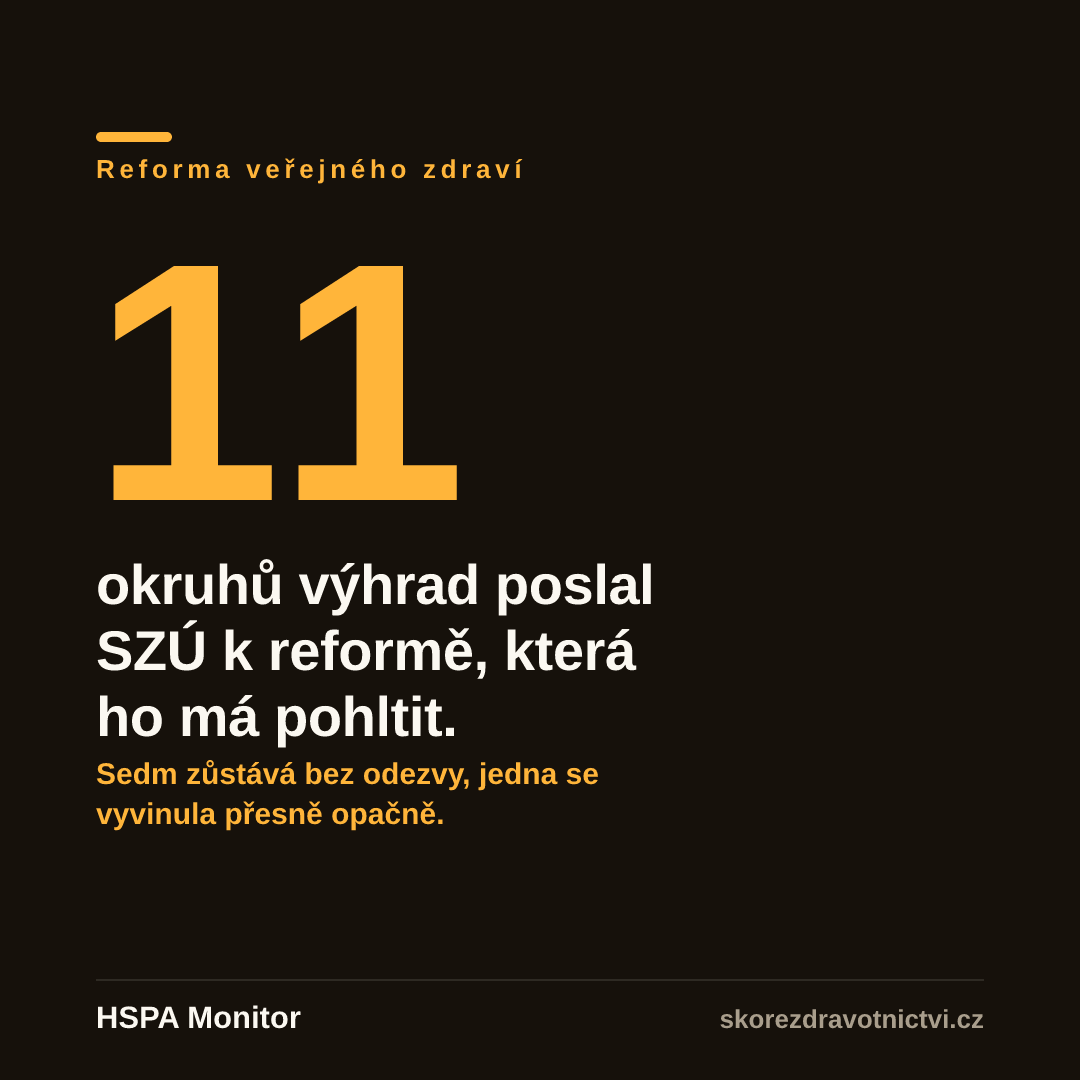
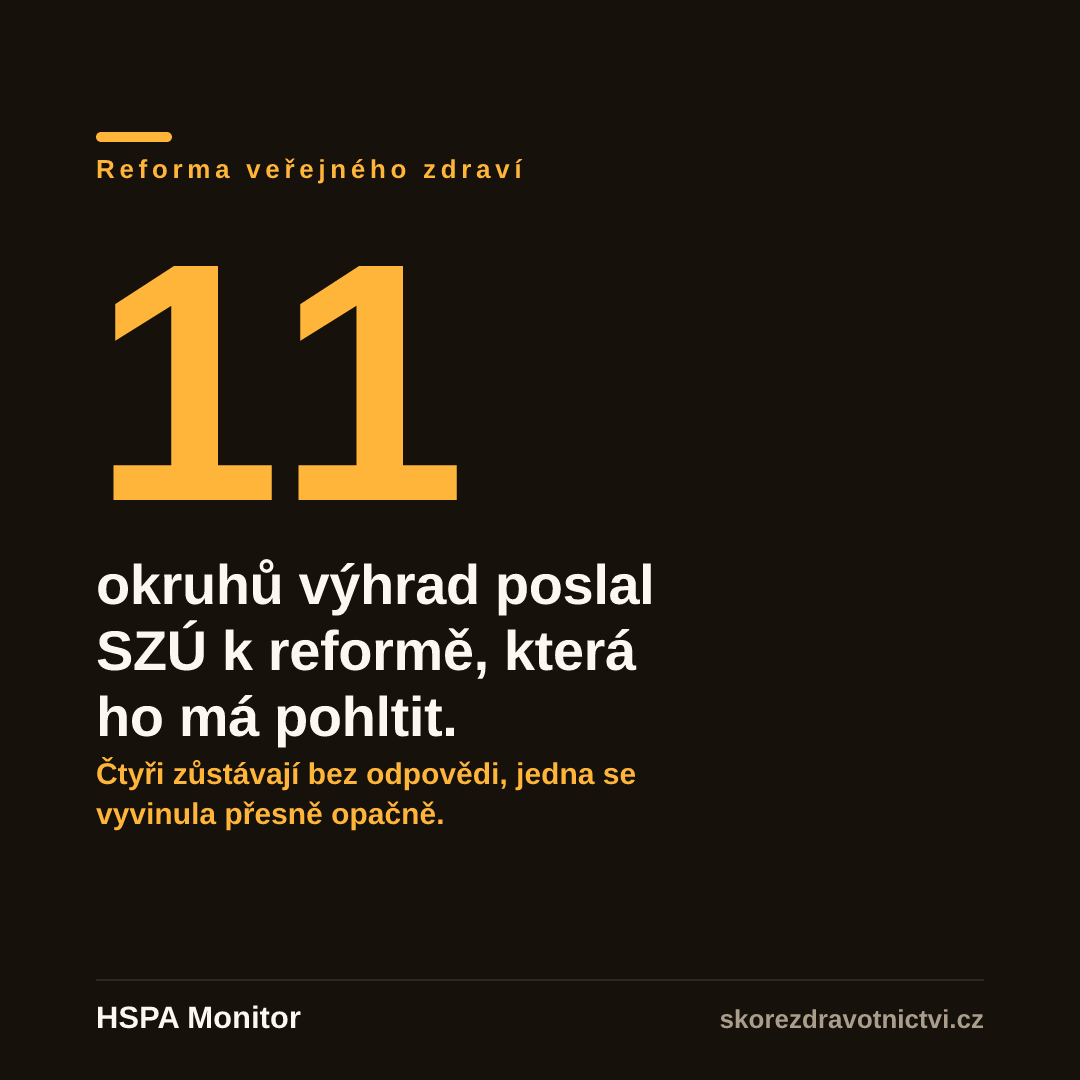
feat(social): karty pro 8 nejnovějších článků + tvrdá kontrola délky kontextu
Osm nejčerstvějších publikovaných článků (#254–#261) nemělo stat-hero kartu,
takže je sociální rutina nemohla vůbec zařadit do fronty — fond kandidátů
končil u článků starých dva týdny. Doplněny entries do MANIFESTu a vygenerovány
všechny tři formáty (1:1 pro FB/IG feed, 9:16 pro Stories, 16:9 pro X).

Kontext karty se vešel jen na dva řádky a přebytek se tiše ořízl uprostřed
věty. Generátor teď v takovém případě spadne se stejnou hláškou jako u claimu.
Opraveny čtyři nové entries a jedna stará (dohodovaci-rizeni-2027-vysledek),
která takhle uříznutá byla na produkci.

Opraven i kontext u szu-pripominky-nivz: karta tvrdila „Sedm zůstává bez
odezvy", článek uvádí čtyři bez odpovědi (šest se pohnulo, jedna opačně).

Verifikace: npm test — 1088 testů, 0 failures. Čísla na kartách pocházejí
z perexů a textů příslušných článků.

Claude-Session: https://claude.ai/code/session_01M6MChSZfyCTAMQoYG3s3ti

Changed region(s): [[0.0917, 0.7028, 0.5806, 0.7333]]

diff --git a/05_M1_Starter/scripts/generate-ig-cards.js b/05_M1_Starter/scripts/generate-ig-cards.js
@@ -99,6 +99,54 @@ const OUT_DIRS = {
 //   headline    — fallback bez čísla (velký serif nadpis).
 // Žádná nová čísla z paměti — vše vychází z dříve schválených headline.
 const MANIFEST = {
+  'clanek-screening-sluchu-deti': {
+    kicker: 'Dětské zdraví · screening', signal: 'bad',
+    stat: '24,5', statSuffix: '%', barPct: 25,
+    claim: 'dětí prošlo v roce 2024 screeningem sluchu.',
+    context: '87 678 jich zůstalo bez vyšetření. Mezi okresy padesátinásobný rozdíl.',
+  },
+  'clanek-vydaje-sprava-zdravotnictvi': {
+    kicker: 'Financování · správa', signal: 'neutral',
+    stat: '1,91', statSuffix: '%', barPct: 2,
+    claim: 'běžných výdajů stojí správa českého zdravotnictví.',
+    context: 'Průměr EU-27 je 3,56 %. Míň než Německo, Rakousko, Slovensko i Polsko.',
+  },
+  'clanek-invalidni-duchody-dusevni': {
+    kicker: 'Duševní zdraví · invalidita', signal: 'bad',
+    stat: '106 607',
+    claim: 'invalidních důchodů pro duševní poruchy — o 23 % víc než v roce 2010.',
+    context: 'Od roku 2011 roste bez přerušení. Vedou deprese a úzkosti.',
+  },
+  'clanek-uredni-tempo-84-dni': {
+    kicker: 'Governance · poradní orgány', signal: 'neutral',
+    stat: '84', statSuffix: ' dní',
+    claim: 'trvá typicky cesta od úkolu v komisi k doloženému splnění.',
+    context: 'Z 1 878 úkolů má doklad 644. Rekordní se vlekl 2 084 dní.',
+  },
+  'clanek-co-ridi-vestnik-mz': {
+    kicker: 'Legislativa · Věstník MZ', signal: 'neutral',
+    stat: '1 955',
+    claim: 'dokumentů vyšlo ve Věstníku ministerstva od roku 1998.',
+    context: '351 částek, 28 ročníků. Rok 2025 přinesl 152 dokumentů — čtyřnásobek průměru.',
+  },
+  'clanek-centrove-leky-2026': {
+    kicker: 'Léková politika · centra', signal: 'warn',
+    stat: '39,8', statSuffix: ' mld.',
+    claim: 'korun stály centrové léky v roce 2024 — o čtvrtinu víc než předloni.',
+    context: 'Necelých 150 tisíc pacientů čerpá bezmála 8 % systému.',
+  },
+  'clanek-veto-platcu-szv-2026': {
+    kicker: 'Financování · sazebník výkonů', signal: 'warn',
+    stat: '15',
+    claim: 'návrhů do sazebníku zastavily v roce 2025 dva hlasy plátců.',
+    context: 'Jednací řád: neprojde, hlasují-li proti dva členové. Ty dva mají VZP a Svaz ZP.',
+  },
+  'clanek-stret-zajmu-poradni-organy-2026': {
+    kicker: 'Governance · střet zájmů', signal: 'bad',
+    stat: '52', statSuffix: ' z 57',
+    claim: 'statutů poradních orgánů ministerstva střet zájmů vůbec neřeší.',
+    context: 'Bez pravidel jsou i tělesa o sazebníku a lékové politice.',
+  },
   'clanek-alkohol-adolescenti': {
     kicker: 'Prevence · mládež', signal: 'bad',
     stat: '56', statSuffix: '%', barPct: 56,
@@ -197,7 +245,7 @@ const MANIFEST = {
   'clanek-dohodovaci-rizeni-2027-vysledek': {
     kicker: 'Financování · dohodovací řízení', signal: 'good',
     stat: '12/15', claim: 'segmentů se dohodlo na úhradách 2027. Loni jen 3 z 15.',
-    context: '3 finančně největší segmenty ale zůstaly bez dohody — rozhodne úhradová vyhláška do konce října.',
+    context: 'Tři největší segmenty zůstaly bez dohody — rozhodne vyhláška.',
   },
   'clanek-react-eu-nku-kontrola-2026': {
     kicker: 'Financování · kontrola', signal: 'warn',
@@ -549,7 +597,7 @@ const MANIFEST = {
   'clanek-spalnicky-usa-2026': { kicker: 'Vakcinace · spalničky', signal: 'bad', stat: '2 777', claim: 'případů spalniček v USA k 20. 8. 2026 — nejvíc od roku 1991.', context: 'Proočkovanost MMR před školou 92,5 %. Práh imunity je 95 %.' },
   'clanek-podil-prakticti-lekari': { kicker: 'Dostupnost · primární péče', signal: 'bad', stat: '16,9', statSuffix: '%', barPct: 17, claim: 'lékařů v Česku jsou praktici — průměr OECD je kolem 23 %.', context: 'Lékařů má Česko dost (4,2 na 1 000). Chybí generalisté.' },
   'clanek-detska-psychiatrie-akutni-luzka': { kicker: 'Duševní zdraví · děti', signal: 'neutral', stat: '4 067', claim: 'akutních psychiatrických hospitalizací dětí do 19 let (2023).', context: 'Téměř dvojnásobek proti roku 2013. Chybí ambulance, ne lůžka.' },
-  'clanek-szu-pripominky-nivz': { kicker: 'Reforma veřejného zdraví', signal: 'warn', stat: '11', claim: 'okruhů výhrad poslal SZÚ k reformě, která ho má pohltit.', context: 'Sedm zůstává bez odezvy, jedna se vyvinula přesně opačně.' },
+  'clanek-szu-pripominky-nivz': { kicker: 'Reforma veřejného zdraví', signal: 'warn', stat: '11', claim: 'okruhů výhrad poslal SZÚ k reformě, která ho má pohltit.', context: 'Čtyři zůstávají bez odpovědi, jedna se vyvinula přesně opačně.' },
   'clanek-klistova-encefalitida': { kicker: 'Prevence · nákazy z klíšťat', signal: 'bad', stat: '670', claim: 'hlášených případů klíšťové encefalitidy za rok 2024 — nejvíc v celé EU.', context: '6,1 na 100 tisíc obyvatel proti průměru EU/EEA 0,81. Očkováno je 17 % Čechů.' },
   'clanek-deti-ambulantni-psychiatrie': { kicker: 'Duševní zdraví · děti', signal: 'neutral', stat: '65 000', claim: 'dětí do 19 let ročně projde psychiatrickou ambulancí (2023).', context: 'Na neakutní vyšetření se čeká typicky 6 měsíců. Psychiatrů pro děti je 157–200.' },
   'clanek-pedopsychiatri-kapacita': { kicker: 'Duševní zdraví · kapacity', signal: 'bad', stat: '6,4', claim: 'úvazku dětských psychiatrů na 100 tisíc dětí — tak tenká je síť.', context: 'Obor stárne a nedoplňuje se, poptávka po pandemii strmě roste.' },
@@ -692,7 +740,13 @@ function buildStatCard(meta, L) {
     cursorY = barY + L.barH;
   }
   if (context) {
-    const ctxLines = wrap(context, L.ctxWrap || 40).slice(0, 2);
+    const ctxLines = wrap(context, L.ctxWrap || 40);
+    // Na kontext jsou v layoutu jen dva řádky. Dřív se přebytek tiše uřízl
+    // uprostřed věty a karta odešla do fronty s useknutou pointou — proto
+    // radši spadneme hned, ať se copy zkrátí v MANIFESTU.
+    if (ctxLines.length > 2) {
+      throw new Error(`Kontext se nevejde (>2 řádky): „${context}" — zkrať copy v MANIFESTU.`);
+    }
     const ctxStartY = cursorY + L.ctxGap;
     blocks.push(ctxLines
       .map((l, i) => `<text class="context" x="${L.M}" y="${ctxStartY + i * L.ctxLineH}">${escapeXml(l)}</text>`)
